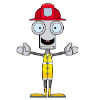
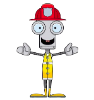
Added highlighting and removed bg

diff --git a/index.html b/index.html
@@ -1,170 +1,162 @@
 <html lang="en">
-  <head>
-    <meta charset="UTF-8" />
-    <meta name="viewport" content="width=device-width, initial-scale=1.0" />
-    <meta http-equiv="X-UA-Compatible" content="ie=edge" />
-    <title>Document</title>
-    <xml id="toolbox" style="display: none">
-      <block type="controls_repeat_ext"></block>
-      <block type="controls_if"></block>
-      <block type="redi_var_tileOnFire"></block>
 
-      <block type="math_number"></block>
-      <block type="redi_var_tileAhead"></block>
-      <block type="redi_var_waterSupply"></block>
-      <block type="redi_moveForward"></block>
-      <block type="redi_extinguishFire"></block>
-      <block type="logic_compare">
-        <field name="OP">EQ</field>
-      </block>
-      <block type="controls_whileUntil">
-        <field name="MODE">WHILE</field>
-      </block>
-      <block type="logic_negate"></block>
-      <!--
+<head>
+  <meta charset="UTF-8" />
+  <meta name="viewport" content="width=device-width, initial-scale=1.0" />
+  <meta http-equiv="X-UA-Compatible" content="ie=edge" />
+  <title>Document</title>
+  <xml id="toolbox" style="display: none">
+    <block type="controls_repeat_ext"></block>
+    <block type="controls_if"></block>
+    <block type="redi_var_tileOnFire"></block>
+
+    <block type="math_number"></block>
+    <block type="redi_var_tileAhead"></block>
+    <block type="redi_var_waterSupply"></block>
+    <block type="redi_moveForward"></block>
+    <block type="redi_extinguishFire"></block>
+    <block type="logic_compare">
+      <field name="OP">EQ</field>
+    </block>
+    <block type="controls_whileUntil">
+      <field name="MODE">WHILE</field>
+    </block>
+    <block type="logic_negate"></block>
+    <!--
     <block type="logic_compare"></block>
     <block type="math_number"></block>
     <block type="math_arithmetic"></block>
     <block type="text"></block>
     <block type="text_print"></block> -->
-    </xml>
-    <link href="./style.css" rel="stylesheet" type="text/css" />
-  </head>
+  </xml>
+  <link href="./style.css" rel="stylesheet" type="text/css" />
+</head>
 
-  <body>
-    <div id="wrapper">
-      <nav id="header">
-        <a href="">Home</a>
-      </nav>
-      <div id="blocklyArea">
-        <div id="blocklyDiv"></div>
-      </div>
-      <div id="visualContainer">
-        <svg
-          viewBox="0 0 500 500"
-          width="100%"
-          height="100%"
-          xmlns="http://www.w3.org/2000/svg"
-          preserveAspectRatio="xMidYMid meet"
-        >
-          <defs class="svgTemplates">
-            <rect
-              x="0"
-              y="0"
-              width="100"
-              height="100"
-              style="fill:blue;stroke:pink;stroke-width:5;fill-opacity:0.1;stroke-opacity:0.9"
-            />
-            <image height="80" xlink:href="./bot.png" data-context="rediBot" />
-            <image height="45" xlink:href="./fire.png" data-context="flame" />
-          </defs>
-        </svg>
-      </div>
+<body>
+  <div id="wrapper">
+    <nav id="header">
+      <a href="">Home</a>
+    </nav>
+    <div id="blocklyArea">
+      <div id="blocklyDiv"></div>
     </div>
-    <textarea name="" id="output" cols="30" rows="10"></textarea>
-    <button id="runButton">Run</button>
-    <script src="./blockly/blockly_compressed.js"></script>
-    <script src="./blockly/javascript_compressed.js"></script>
-    <script src="./blockly/blocks_compressed.js"></script>
-    <script src="./blockly/msg/js/en.js"></script>
-    <script src="./JS-Interpreter/acorn_interpreter.js"></script>
-    <script src="./DisplayManager.js"></script>
-    <script src="./BotManager.js"></script>
-    <script src="./BlocklyManager.js"></script>
+    <div id="visualContainer">
+      <svg viewBox="0 0 500 500" width="100%" height="100%" xmlns="http://www.w3.org/2000/svg"
+        preserveAspectRatio="xMidYMid meet">
+        <defs class="svgTemplates">
+          <rect x="0" y="0" width="100" height="100"
+            style="fill:white;stroke:black;stroke-width:5;fill-opacity:0.1;stroke-opacity:0.9" />
+          <image height="80" xlink:href="./bot.png" data-context="rediBot" />
+          <image height="45" xlink:href="./fire.png" data-context="flame" />
+        </defs>
+      </svg>
+    </div>
+  </div>
+  <textarea name="" id="output" cols="30" rows="10"></textarea>
+  <button id="runButton">Run</button>
+  <script src="./blockly/blockly_compressed.js"></script>
+  <script src="./blockly/javascript_compressed.js"></script>
+  <script src="./blockly/blocks_compressed.js"></script>
+  <script src="./blockly/msg/js/en.js"></script>
+  <script src="./JS-Interpreter/acorn_interpreter.js"></script>
+  <script src="./DisplayManager.js"></script>
+  <script src="./BotManager.js"></script>
+  <script src="./BlocklyManager.js"></script>
 
-    <script>
-      window.addEventListener("load", function() {
-        let currentCode = null;
+  <script>
+    window.addEventListener("load", function () {
+      let currentCode = null;
 
-        Blockly.Blocks["redi_var_tileOnFire"] = {
-          init: function() {
-            this.jsonInit({
-              type: "redi_var_tileOnFire",
-              message0: "tileOnFire",
-              output: "Boolean",
-              colour: 230,
-              tooltip: "Whether or not the tile is on fire",
-              helpUrl: ""
-            });
-          }
-        };
-        Blockly.JavaScript["redi_var_tileOnFire"] = function(block) {
-          // TODO: Assemble JavaScript into code variable.
-          var code = `tileOnFire`; // JSON.stringify(block);
-          // TODO: Change ORDER_NONE to the correct strength.
-          return [code, Blockly.JavaScript.ORDER_NONE];
-        };
-        Blockly.Blocks["redi_moveForward"] = {
-          init: function() {
-            this.jsonInit({
-              type: "block_type",
-              message0: "move forward",
-              previousStatement: null,
-              nextStatement: null,
-              colour: 230,
-              tooltip: "",
-              helpUrl: ""
-            });
-          }
-        };
-        Blockly.JavaScript["redi_moveForward"] = function(block) {
-          return "moveForward();\n";
-        };
-        Blockly.Blocks["redi_extinguishFire"] = {
-          init: function() {
-            this.appendDummyInput().appendField("Extinguish fire");
-            this.setPreviousStatement(true, null);
-            this.setNextStatement(true, null);
-            this.setColour(230);
-            this.setTooltip(
-              "Make the rediBot extinguish a fire if there is water available, decrease water"
-            );
-            this.setHelpUrl("");
-          }
-        };
-        Blockly.JavaScript["redi_extinguishFire"] = function(block) {
-          return "extinguishFire();\n";
-        };
-        Blockly.Blocks["redi_var_tileAhead"] = {
-          init: function() {
-            this.jsonInit({
-              type: "redi_var_tileAhead",
-              message0: "tileAhead",
-              output: "Boolean",
-              colour: 230,
-              tooltip: "Whether or not there is a tile ahead",
-              helpUrl: ""
-            });
-          }
-        };
-        Blockly.JavaScript["redi_var_tileAhead"] = function(block) {
-          // TODO: Assemble JavaScript into code variable.
-          var code = "tileAhead";
-          // TODO: Change ORDER_NONE to the correct strength.
-          return [code, Blockly.JavaScript.ORDER_NONE];
-        };
-        Blockly.Blocks["redi_var_waterSupply"] = {
-          init: function() {
-            this.jsonInit({
-              type: "redi_var_watersupply",
-              message0: "waterSupply",
-              output: "Number",
-              colour: 230,
-              tooltip: "Volume of water remaining",
-              helpUrl: ""
-            });
-          }
-        };
-        Blockly.JavaScript["redi_var_waterSupply"] = function(block) {
-          // TODO: Assemble JavaScript into code variable.
-          var code = "waterSupply";
-          // TODO: Change ORDER_NONE to the correct strength.
-          return [code, Blockly.JavaScript.ORDER_NONE];
-        };
-        const blocklyManager = new BlocklyManager();
-        const botManager = new BotManager(blocklyManager.getWorkspace());
-        console.log("All assets are loaded");
-      });
-    </script>
-  </body>
+      Blockly.Blocks["redi_var_tileOnFire"] = {
+        init: function () {
+          this.jsonInit({
+            type: "redi_var_tileOnFire",
+            message0: "tileOnFire",
+            output: "Boolean",
+            colour: 230,
+            tooltip: "Whether or not the tile is on fire",
+            helpUrl: ""
+          });
+        }
+      };
+      Blockly.JavaScript["redi_var_tileOnFire"] = function (block) {
+        // TODO: Assemble JavaScript into code variable.
+        var code = `tileOnFire`; // JSON.stringify(block);
+        // TODO: Change ORDER_NONE to the correct strength.
+        return [code, Blockly.JavaScript.ORDER_NONE];
+      };
+      Blockly.Blocks["redi_moveForward"] = {
+        init: function () {
+          this.jsonInit({
+            type: "block_type",
+            message0: "move forward",
+            previousStatement: null,
+            nextStatement: null,
+            colour: 230,
+            tooltip: "",
+            helpUrl: ""
+          });
+        }
+      };
+      Blockly.JavaScript["redi_moveForward"] = function (block) {
+        return "moveForward();\n";
+      };
+      Blockly.Blocks["redi_extinguishFire"] = {
+        init: function () {
+          this.appendDummyInput().appendField("Extinguish fire");
+          this.setPreviousStatement(true, null);
+          this.setNextStatement(true, null);
+          this.setColour(230);
+          this.setTooltip(
+            "Make the rediBot extinguish a fire if there is water available, decrease water"
+          );
+          this.setHelpUrl("");
+        }
+      };
+      Blockly.JavaScript["redi_extinguishFire"] = function (block) {
+        return "extinguishFire();\n";
+      };
+      Blockly.Blocks["redi_var_tileAhead"] = {
+        init: function () {
+          this.jsonInit({
+            type: "redi_var_tileAhead",
+            message0: "tileAhead",
+            output: "Boolean",
+            colour: 230,
+            tooltip: "Whether or not there is a tile ahead",
+            helpUrl: ""
+          });
+        }
+      };
+      Blockly.JavaScript["redi_var_tileAhead"] = function (block) {
+        // TODO: Assemble JavaScript into code variable.
+        var code = "tileAhead";
+        // TODO: Change ORDER_NONE to the correct strength.
+        return [code, Blockly.JavaScript.ORDER_NONE];
+      };
+      Blockly.Blocks["redi_var_waterSupply"] = {
+        init: function () {
+          this.jsonInit({
+            type: "redi_var_watersupply",
+            message0: "waterSupply",
+            output: "Number",
+            colour: 230,
+            tooltip: "Volume of water remaining",
+            helpUrl: ""
+          });
+        }
+      };
+      Blockly.JavaScript["redi_var_waterSupply"] = function (block) {
+        // TODO: Assemble JavaScript into code variable.
+        var code = "waterSupply";
+        // TODO: Change ORDER_NONE to the correct strength.
+        return [code, Blockly.JavaScript.ORDER_NONE];
+      };
+      const blocklyManager = new BlocklyManager();
+      const botManager = new BotManager(blocklyManager.getWorkspace());
+      console.log("All assets are loaded");
+    });
+  </script>
+</body>
+
 </html>

diff --git a/BotManager.js b/BotManager.js
@@ -1,6 +1,6 @@
 function BotManager(workspace) {
   const initialWaterSupply = 2;
-  const stepTimer = 400;
+  const stepTimer = 200;
   let currentCode = "";
   let outputContainer = null;
   let displayManager = null;
@@ -27,6 +27,9 @@ function BotManager(workspace) {
       console.log("extinguishFire");
       console.log({ currentTile, waterSupply });
     };
+    const highlightBlock = (id) => {
+      workspace.highlightBlock(id);
+    }
     const initIntepreter = (interpreter, scope) => {
       interpreter.setProperty(scope, "waterSupply", waterSupply);
       interpreter.setProperty(scope, "currentTile", currentTile);
@@ -40,17 +43,27 @@ function BotManager(workspace) {
         "extinguishFire",
         interpreter.createNativeFunction(extinguishFire)
       );
+      interpreter.setProperty(
+        scope,
+        "highlightBlock",
+        interpreter.createNativeFunction(highlightBlock)
+      );
     };
+
     const jsInterpreter = new Interpreter(currentCode, initIntepreter);
+    let stepCount = -1;
     const nextStep = () => {
-      if (jsInterpreter.step()) {
-        jsInterpreter.step();
-        window.setTimeout(() => {
-          if (nextStep() === false) {
-            onStopIntepreting();
-          }
-        }, stepTimer);
+      stepCount++;
+      const lastOne = jsInterpreter.step() === false;
+      if (lastOne) {
+        onStopIntepreting();
+        return
       }
+      if (stepCount % 2 === 0) {
+        nextStep()
+        return
+      }
+      window.setTimeout(nextStep, stepTimer);
     };
     nextStep();
   }

diff --git a/BlocklyManager.js b/BlocklyManager.js
@@ -7,7 +7,7 @@ function BlocklyManager() {
     workspace = Blockly.inject(blocklyDiv, {
       toolbox: document.querySelector("#toolbox")
     });
-    const onresize = function(e) {
+    const onresize = function (e) {
       blocklyDiv.style.left = "0px";
       blocklyDiv.style.top = "0px";
       blocklyDiv.style.width = blocklyArea.offsetWidth + "px";
@@ -17,6 +17,8 @@ function BlocklyManager() {
     window.addEventListener("resize", onresize, false);
     onresize();
     Blockly.svgResize(workspace);
+    Blockly.JavaScript.STATEMENT_PREFIX = 'highlightBlock(%1);\n';
+    Blockly.JavaScript.addReservedWords('highlightBlock');
   }
   this.getWorkspace = () => {
     return workspace;
